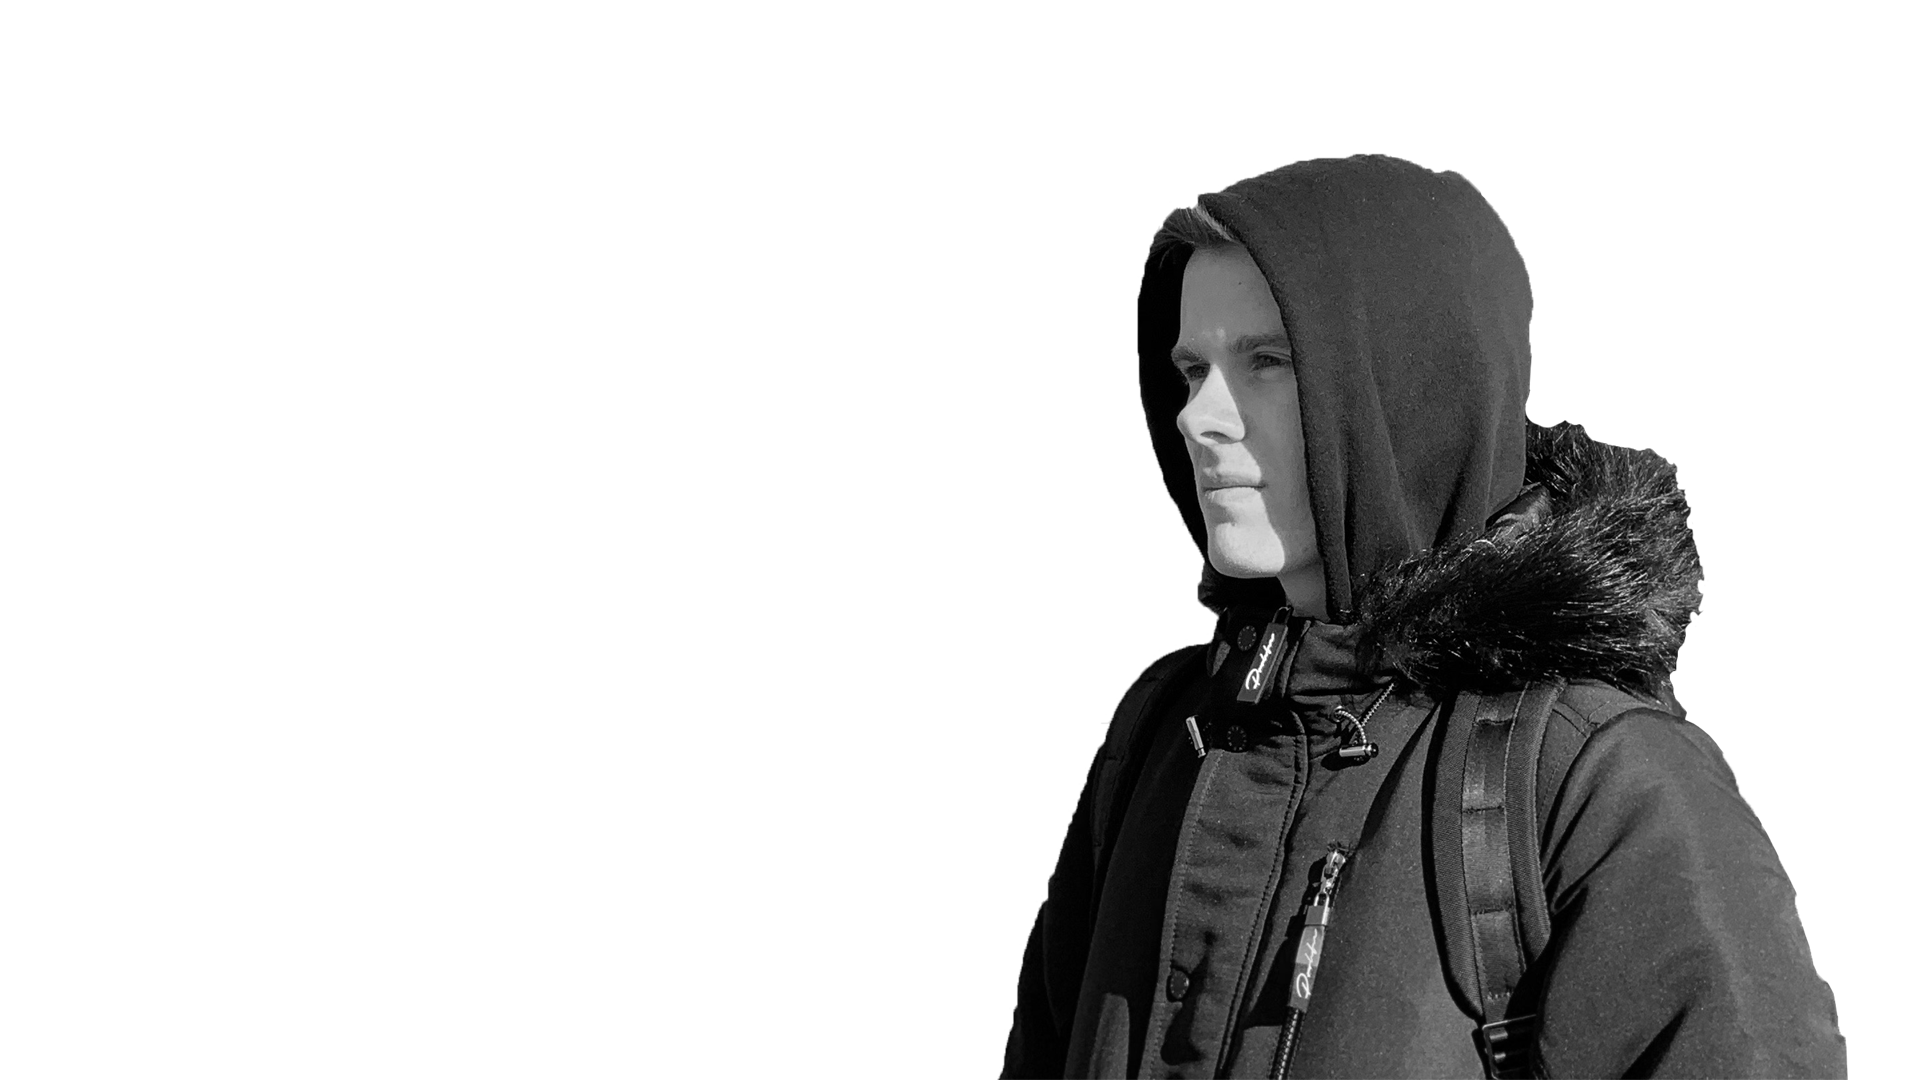
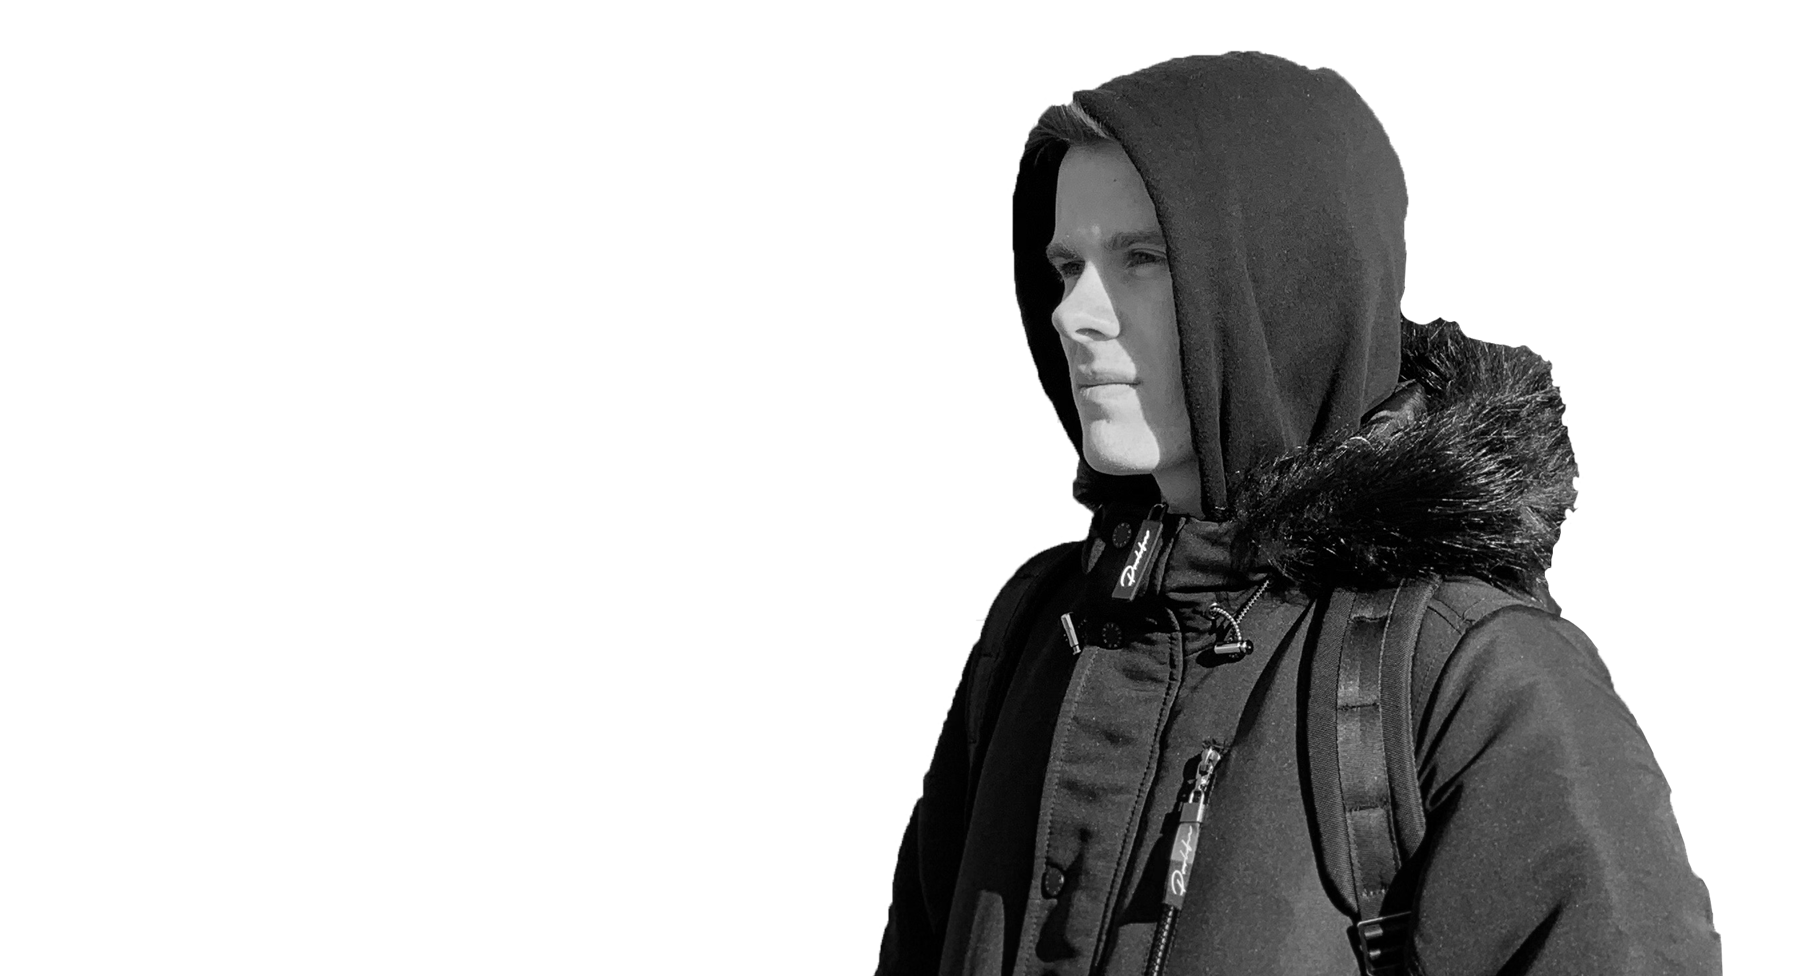
Added responsive styles to about page

Changed region(s): [[0.4685, 0.0307, 0.9057, 1.0], [0.9057, 0.7377, 0.937, 0.7684]]

diff --git a/src/scss/views/_about.scss b/src/scss/views/_about.scss
@@ -1,5 +1,8 @@
 .ns-about {
-  background-image: url('../../assets/about_background_large.png');
+  background-image: url('../../assets/about_background_xsmall.png');
+  background-position-x: -70px;
+  background-position-y: 50px;
+  background-attachment: fixed;
   display: flex;
   flex-direction: column;
 
@@ -27,7 +30,7 @@
         font-family: 'Montserrat', sans-serif;
         font-weight: 300;
         color: $text-light;
-        font-size: 20px;
+        font-size: 14px;
       }
     }
 
@@ -78,5 +81,62 @@
         }
       }
     }
+  }
+}
+
+@media (min-width: 400px) {
+  .ns-about {
+    background-position-x: 0;
+    background-position-y: 50px;
+  }
+}
+
+@media (min-width: 600px) {
+  .ns-about {
+    background-position-x: 100px;
+    background-image: url('../../assets/about_background_small.png');
+
+    .ns-content .ns-info .ns-description {
+      font-size: 16px;
+    }
+  }
+}
+
+@media (min-width: 750px) {
+  .ns-about {
+    background-position-x: 100px;
+
+    .ns-content .ns-info .ns-description {
+      font-size: 18px;
+    }
+  }
+}
+
+@media (min-width: 850px) {
+  .ns-about {
+    background-image: url('../../assets/about_background_medium.png');
+    background-position-x: -50px;
+  }
+}
+
+@media (min-width: 1000px) {
+  .ns-about {
+    background-position-x: 150px;
+
+    .ns-content .ns-info .ns-description {
+      font-size: 20px;
+    }
+  }
+}
+
+@media (min-width: 1300px) {
+  .ns-about {
+    background-position-x: 250px;
+  }
+}
+
+@media (min-width: 1600px) {
+  .ns-about {
+    background-image: url('../../assets/about_background_large.png');
   }
 }
